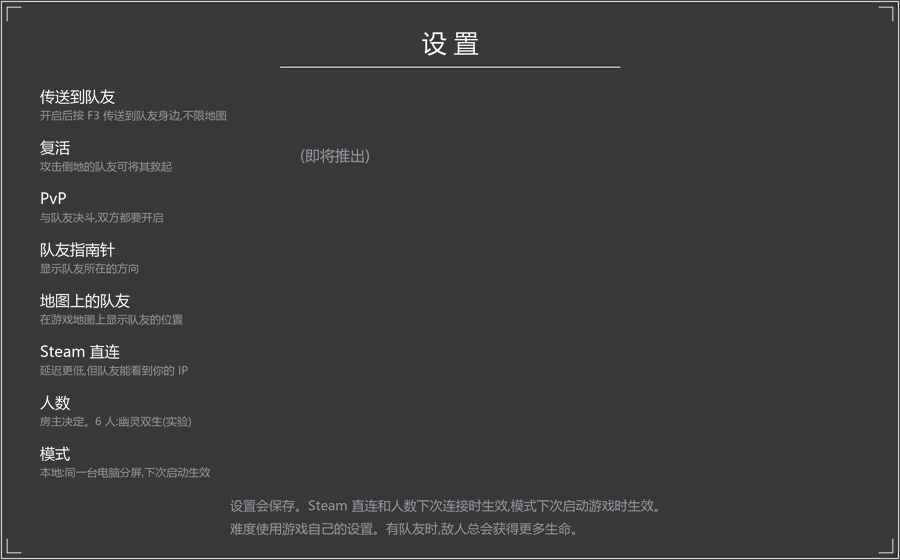
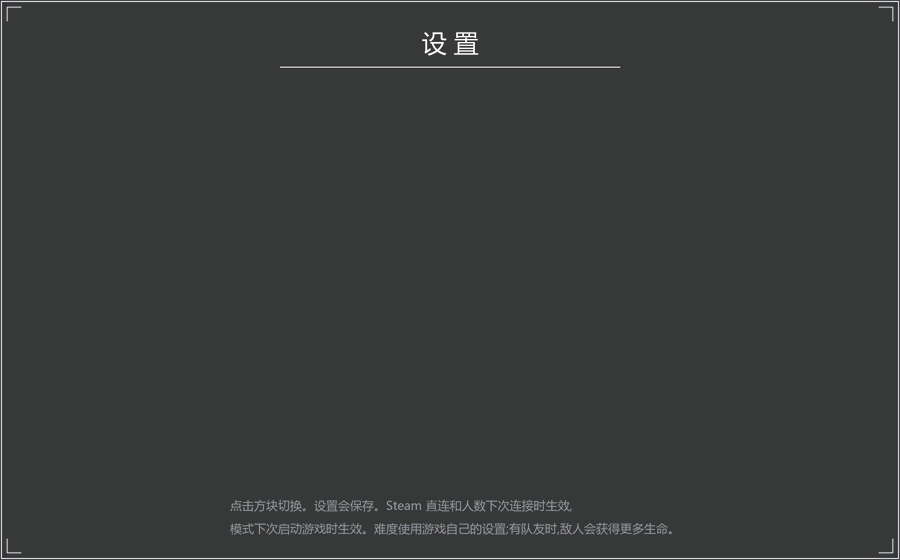
MORE page as square tiles, and a Free Bell Travel switch
The settings page is now nine square tiles (the user's design): green with a tick and ON, red with a cross and OFF,
gray with the choice for Players and Mode, dim for Revive (still to come). A click moves a tile to its next choice.
The word and the mark are on every tile for anyone who can't tell red from green. English and Chinese art from
art/make_online_panel.py; the old per-row option buttons are gone.

New: Free Bell Travel (FreeBellTravel = On in PhantomPact.ini, the default). Off keeps the game's own rule: a trip
from the map to a bell costs a Traversal Talisman. It applies to each player's own trips, in force at once.

Sim: the MORE tests click the tiles; new checks for the Free Bell Travel tile, the Players cycle and Revive writing
nothing. four 834 ok, chaos 1-30 ok, lint and event check clean.

diff --git a/art/make_online_panel.py b/art/make_online_panel.py
@@ -17,17 +17,18 @@ WORDS = {
                  "Joining takes you to the host, on any map.",
                  "Password: optional. If one player sets it, both must use the same one."],
         "settings": "SETTINGS",
-        "rows": [("TP > Partner", "On: F3 takes you to your partner, on any map"),
-                 ("Revive", "Strike a downed partner to bring them back"),
-                 ("PvP", "Duel your partner; both must turn it on"),
-                 ("Partner Compass", "Shows where your partner is"),
-                 ("Partner On The Map", "Their mark on the game's map"),
-                 ("Steam Direct", "Less delay, but your partner can see your IP"),
-                 ("Players", "Host's choice. 6: ghost twins (test)"),
-                 ("Mode", "Local: split screen on this PC, from the next start")],
-        "soon": "(Coming soon)",
-        "foot": ["Kept for next time. Steam Direct and Players: next connection. Mode: next game start.",
-                 "Difficulty is the game's own. With a partner, enemies always get more health."],
+        "tiles": {"teleport": ("TP > Partner", "F3 takes you to your partner, on any map"),
+                  "revive": ("Revive", "Strike a downed partner to bring them back"),
+                  "pvp": ("PvP", "Duel your partner; both must turn it on"),
+                  "compass": ("Partner Compass", "Shows where your partner is"),
+                  "mapicon": ("Partner On The Map", "Their mark on the game's map"),
+                  "freetravel": ("Free Bell Travel", "Off: a trip to a bell costs a Traversal Talisman"),
+                  "direct": ("Steam Direct", "Less delay, but your partner can see your IP"),
+                  "players": ("Players", "Host's choice. 6: ghost twins (test)"),
+                  "mode": ("Mode", "Local: split screen on this PC, next start")},
+        "soon": "SOON",
+        "foot": ["Click a tile to change it. Kept for next time. Steam Direct and Players: next connection.",
+                 "Mode: next game start. Difficulty is the game's own; with a partner, enemies get more health."],
         "cards": {"online_steam": ("Steam", "friends, no setup"),
                   "online_tailscale": ("Tailscale", "also Hamachi, Radmin"),
                   "online_other": ("Other network", "ZeroTier, UU..."),
@@ -46,17 +47,18 @@ WORDS = {
                  "加入后会传送到房主身边,不在同一张地图也可以。",
                  "密码可以不设。一方设置后,双方必须使用相同的密码。"],
         "settings": "设置",
-        "rows": [("传送到队友", "开启后按 F3 传送到队友身边,不限地图"),
-                 ("复活", "攻击倒地的队友可将其救起"),
-                 ("PvP", "与队友决斗,双方都要开启"),
-                 ("队友指南针", "显示队友所在的方向"),
-                 ("地图上的队友", "在游戏地图上显示队友的位置"),
-                 ("Steam 直连", "延迟更低,但队友能看到你的 IP"),
-                 ("人数", "房主决定。6 人:幽灵双生(实验)"),
-                 ("模式", "本地:同一台电脑分屏,下次启动生效")],
-        "soon": "(即将推出)",
-        "foot": ["设置会保存。Steam 直连和人数下次连接时生效,模式下次启动游戏时生效。",
-                 "难度使用游戏自己的设置。有队友时,敌人总会获得更多生命。"],
+        "tiles": {"teleport": ("传送到队友", "开启后按 F3 传送到队友身边,不限地图"),
+                  "revive": ("复活", "攻击倒地的队友可将其救起"),
+                  "pvp": ("PvP", "与队友决斗,双方都要开启"),
+                  "compass": ("队友指南针", "显示队友所在的方向"),
+                  "mapicon": ("地图上的队友", "在游戏地图上显示队友的位置"),
+                  "freetravel": ("免费钟传送", "关闭后,传送到钟要消耗道具,与原版相同"),
+                  "direct": ("Steam 直连", "延迟更低,但队友能看到你的 IP"),
+                  "players": ("人数", "房主决定。6 人:幽灵双生(实验)"),
+                  "mode": ("模式", "本地:同一台电脑分屏,下次启动生效")},
+        "soon": "即将推出",
+        "foot": ["点击方块切换。设置会保存。Steam 直连和人数下次连接时生效,",
+                 "模式下次启动游戏时生效。难度使用游戏自己的设置;有队友时,敌人会获得更多生命。"],
         "cards": {"online_steam": ("Steam", "好友联机,无需设置"),
                   "online_tailscale": ("Tailscale", "也适用于 Hamachi、Radmin"),
                   "online_other": ("其他网络", "ZeroTier、UU 加速器"),
@@ -97,13 +99,84 @@ def settings_background(w_):
     corners(d, w, h)
     spaced(d, (w * K / 2, 42 * K), w_["settings"], f(25), BRIGHT, gap=7)
     d.line(((w / 2 - 170) * K, 67 * K, (w / 2 + 170) * K, 67 * K), fill=FAINT, width=K)
-    for y, (label, sub) in zip((104, 155, 206, 257, 308, 359, 410, 461), w_["rows"]):
-        d.text((40 * K, (y - 8) * K), label, font=f(15), fill=BRIGHT, anchor="lm")
-        d.text((40 * K, (y + 11) * K), sub, font=f(11), fill=DIM, anchor="lm")
-    d.text((300 * K, 155 * K), w_["soon"], font=f(15), fill=DIM, anchor="lm")
     for y, line in zip((505, 528), w_["foot"]):
-        d.text((230 * K, y * K), line, font=f(13), fill=DIM, anchor="lm")
+        d.text((230 * K, y * K), line, font=f(12), fill=DIM, anchor="lm")
     save(img, w_["prefix"] + "online_settings_bg")
+
+
+# The settings as square tiles (the user's design): green and ON with a tick when on, red and OFF with a cross when off,
+# gray with the choice for Players and Mode, dim for one still to come. The word and the mark are there for anyone who
+# can't tell the red from the green. onlinepanel.lua has the same TILE size and places them.
+TILE = 150
+LOOKS = {
+    "on": ((23, 52, 4, 225), (99, 153, 34, 255), (214, 236, 180, 255), (192, 221, 151, 255)),
+    "off": ((80, 19, 19, 225), (163, 45, 45, 255), (252, 214, 214, 255), (247, 193, 193, 255)),
+    "multi": ((29, 30, 34, 225), (120, 119, 114, 255), (236, 234, 226, 255), (190, 188, 180, 255)),
+    "soon": ((21, 22, 24, 215), (60, 60, 58, 255), (120, 119, 114, 255), (95, 94, 90, 255)),
+}
+
+
+def wrap(d, text, f, width):
+    """Lines that fit width: by word, or by character for Chinese."""
+    spaced_words = " " in text and not any(ord(c) > 0x2E80 for c in text)
+    words = text.split(" ") if spaced_words else list(text)
+    joiner = " " if spaced_words else ""
+    lines, line = [], ""
+    for word in words:
+        trial = line + (joiner if line else "") + word
+        if line and d.textlength(trial, font=f) > width:
+            lines.append(line)
+            line = word.lstrip()
+        else:
+            line = trial
+    return lines + [line] if line else lines
+
+
+def tile(name, label, sub, value, look, face, mark=None):
+    fill, edge, title, small = LOOKS[look]
+    img, d = canvas(TILE, TILE)
+    d.rectangle((0, 0, TILE * K - 1, TILE * K - 1), fill=fill)
+    frame(d, TILE, TILE, edge, width=2)
+    pad = 12
+    y = pad + 2
+    for line in wrap(d, label, face(15, True), (TILE - 2 * pad) * K):
+        d.text((pad * K, (y + 9) * K), line, font=face(15, True), fill=title, anchor="lm")
+        y += 20
+    y += 5
+    for line in wrap(d, sub, face(11), (TILE - 2 * pad) * K)[:4]:
+        d.text((pad * K, (y + 7) * K), line, font=face(11), fill=small, anchor="lm")
+        y += 15
+    base = TILE - pad - 9
+    x = pad
+    if mark == "tick":
+        d.line(((x + 1) * K, base * K, (x + 6) * K, (base + 5) * K, (x + 15) * K, (base - 6) * K), fill=title,
+               width=3 * K, joint="curve")
+        x += 22
+    elif mark == "cross":
+        d.line(((x + 2) * K, (base - 6) * K, (x + 13) * K, (base + 5) * K), fill=title, width=3 * K)
+        d.line(((x + 13) * K, (base - 6) * K, (x + 2) * K, (base + 5) * K), fill=title, width=3 * K)
+        x += 22
+    size, gap = 14, 2
+    while size > 9 and sum(d.textlength(c, font=face(size, True)) for c in value) + gap * K * (len(value) - 1) > (TILE - 2 * pad - x + pad) * K:
+        gap, size = (gap - 1, size) if gap else (0, size - 1)
+    spaced(d, (x * K, base * K), value, face(size, True), title, gap=gap, anchor="lm")
+    save(img, name)
+
+
+def tiles(w_):
+    prefix, face, t = w_["prefix"], w_["face"], w_["tiles"]
+    for row in ("teleport", "pvp", "compass", "mapicon", "freetravel", "direct"):
+        label, sub = t[row]
+        tile(prefix + "tile_" + row + "_on", label, sub, w_["on"], "on", face, "tick")
+        tile(prefix + "tile_" + row + "_off", label, sub, w_["off"], "off", face, "cross")
+    label, sub = t["revive"]
+    tile(prefix + "tile_revive_soon", label, sub, w_["soon"], "soon", face)
+    label, sub = t["players"]
+    for n in ("2", "4", "6"):
+        tile(prefix + "tile_players_" + n, label, sub, n, "multi", face)
+    label, sub = t["mode"]
+    for value in ("multiplayer", "local"):
+        tile(prefix + "tile_mode_" + value, label, sub, w_[value], "multi", face)
 
 
 def option(name, text, face=font, w=124, h=40):
@@ -135,18 +208,12 @@ def worded(w_):
     button(prefix + "online_leave", buttons["leave"], face=face)
     button(prefix + "online_settings", buttons["settings"], face=face)
     button(prefix + "online_back", buttons["back"], face=face)
-    option(prefix + "opt_off", w_["off"], face)
-    option(prefix + "opt_on", w_["on"], face)
-    option(prefix + "opt_multiplayer", w_["multiplayer"], face)
-    option(prefix + "opt_local", w_["local"], face)
-    for n in ("2", "4", "6"):
-        option(prefix + "opt_" + n, n, font)
+    tiles(w_)
 
 
 if __name__ == "__main__":
     os.makedirs(OUT, exist_ok=True)
     selected("sel_card", 176, 58)
-    selected("sel_opt", 124, 40)
     selected("sel_lang", 76, 30)
     option("online_lang_en", "English", font, 76, 30)
     option("online_lang_zh", "中文", chinese, 76, 30)
